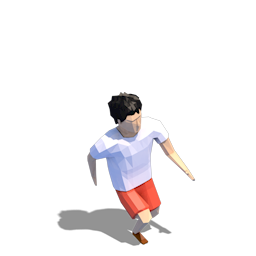
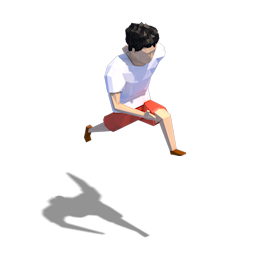
Jumping now feels snappier; reduced jump, duck & invulnerable time to 0.5s.

Changed region(s): [[0.1562, 0.0625, 0.7812, 0.9688]]

diff --git a/Courir/Courir/Constants.swift b/Courir/Courir/Constants.swift
@@ -27,9 +27,9 @@ let initialGameSpeed = 1
 let speedMultiplier = 3.5
 
 let framerate = 30
-let jumpTimeSteps = 21
-let duckTimeSteps = 21
-let invulnerableTimeSteps = 30
+let jumpTimeSteps = 15
+let duckTimeSteps = 15
+let invulnerableTimeSteps = 15
 
 let jumpDuration = Double(jumpTimeSteps) / Double(framerate)
 let duckDuration = Double(duckTimeSteps) / Double(framerate)

diff --git a/Courir/Courir/Obstacle.swift b/Courir/Courir/Obstacle.swift
@@ -19,7 +19,7 @@ class Obstacle: GameObject {
 
     let type: ObstacleType
     let identifier: Int
-    let xWidth = 5 * unitsPerGameGridCell
+    let xWidth = 3 * unitsPerGameGridCell
     let yWidth = 21 * unitsPerGameGridCell
     
     weak var observer: Observer?
